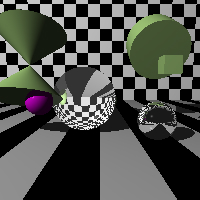
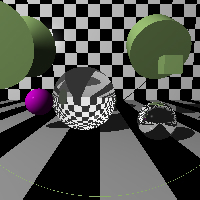
need to fix cone

diff --git a/Basic ray tracing/src/shapes/cone.cpp b/Basic ray tracing/src/shapes/cone.cpp
@@ -49,10 +49,12 @@ void coneSetPattern(cone *c, pattern *pn)
 
 internal uint8 checkCap(ray r, float t, float trunc)
 {
-	//trunc = fabsf(trunc);
+	trunc = fabsf(trunc);
 
 	float x = r.origin.x + t*r.direction.x;
 	float z = r.origin.z + t*r.direction.z;
+
+	//return (x*x + z*z) < trunc;
 
 	if ((x*x + z*z) <= trunc + EPSILON || (x*x + z*z) <= trunc - EPSILON)
 		return true;
@@ -78,13 +80,13 @@ int cone_intersect(cone *c, intersections *is, ray r)
 {
 	intersectCaps(c, is, r);
 
-	double rdx2 = r.direction.x * r.direction.x;
-	double rdy2 = r.direction.y * r.direction.y;
-	double rdz2 = r.direction.z * r.direction.z;
+	float rdx2 = r.direction.x * r.direction.x;
+	float rdy2 = r.direction.y * r.direction.y;
+	float rdz2 = r.direction.z * r.direction.z;
 
-	double a = rdx2 - rdy2 + rdz2;
-	double b = (2 * (double)r.origin.x * (double)r.direction.x) - (2 * (double)r.origin.y * (double)r.direction.y) + (2 * (double)r.origin.z * (double)r.direction.z);
-	double cc = (double)r.origin.x*(double)r.origin.x - (double)r.origin.y*(double)r.origin.y + (double)r.origin.z*(double)r.origin.z;
+	float a = rdx2 - rdy2 + rdz2;
+	float b = (2 * r.origin.x * r.direction.x) - (2 * r.origin.y * r.direction.y) + (2 * r.origin.z * r.direction.z);
+	float cc = r.origin.x*r.origin.x - r.origin.y*r.origin.y + r.origin.z*r.origin.z;
 
 	if (fabsf(a) <= EPSILON)
 	{
@@ -98,26 +100,71 @@ int cone_intersect(cone *c, intersections *is, ray r)
 		return 1;
 	}
 
-	double d = b*b - 4 * a*cc;
+	float d = b*b - 4 * a*cc;
 	if (d < 0)
 		return 0;
 
-	double t0 = (-b - sqrt(d)) / (2 * a);
-	double t1 = (-b + sqrt(d)) / (2 * a);
+	float t0 = (-b - sqrtf(d)) / (2 * a);
+	float t1 = (-b + sqrtf(d)) / (2 * a);
 
 	if (t0 > t1)
-		swap2double(t0, t1);
+		swap2f(t0, t1);
 
-	double y0 = r.origin.y + t0*r.direction.y;
+	float y0 = r.origin.y + t0*r.direction.y;
 	if (c->min < y0 && y0 < c->max)
 		addIntersection(is, createIntersection(t0, (shape*)c));
 
-	double y1 = r.origin.y + t1*r.direction.y;
+	float y1 = r.origin.y + t1*r.direction.y;
 	if (c->min < y1 && y1 < c->max)
 		addIntersection(is, createIntersection(t1, (shape*)c));
 
 	return 1;
 }
+
+//int cone_intersect(cone *c, intersections *is, ray r)
+//{
+//	intersectCaps(c, is, r);
+//
+//	double rdx2 = r.direction.x * r.direction.x;
+//	double rdy2 = r.direction.y * r.direction.y;
+//	double rdz2 = r.direction.z * r.direction.z;
+//
+//	double a = rdx2 - rdy2 + rdz2;
+//	double b = (2 * (double)r.origin.x * (double)r.direction.x) - (2 * (double)r.origin.y * (double)r.direction.y) + (2 * (double)r.origin.z * (double)r.direction.z);
+//	double cc = (double)r.origin.x*(double)r.origin.x - (double)r.origin.y*(double)r.origin.y + (double)r.origin.z*(double)r.origin.z;
+//
+//	if (fabsf(a) <= EPSILON)
+//	{
+//		if (fabsf(b) <= EPSILON)
+//		{
+//			return 0;
+//		}
+//
+//		float t = -cc / (2 * b);
+//		addIntersection(is, createIntersection(t, (shape*)c));
+//		return 1;
+//	}
+//
+//	double d = b*b - 4 * a*cc;
+//	if (d < 0)
+//		return 0;
+//
+//	double t0 = (-b - sqrt(d)) / (2 * a);
+//	double t1 = (-b + sqrt(d)) / (2 * a);
+//
+//	if (t0 > t1)
+//		swap2double(t0, t1);
+//
+//	double y0 = r.origin.y + t0*r.direction.y;
+//	if (c->min < y0 && y0 < c->max)
+//		addIntersection(is, createIntersection(t0, (shape*)c));
+//
+//	double y1 = r.origin.y + t1*r.direction.y;
+//	if (c->min < y1 && y1 < c->max)
+//		addIntersection(is, createIntersection(t1, (shape*)c));
+//
+//	return 1;
+//}
 
 vec4f cone_normalAt(cone *c, vec4f *point)
 {

diff --git a/Basic ray tracing/src/rt.h b/Basic ray tracing/src/rt.h
@@ -182,22 +182,22 @@ void render()
 	cone_construct_default(&cone);
 	cone.min = -1;
 	cone.max = 1;
-	cone.closed = false;
-	mat4 coneRotaion = mat4RotationX(degreesToRadians(20));
-	mat4 coneTranslation = mat4Translation(vec4fVector(-2, 2, 0));
+	cone.closed = true;
+	mat4 coneRotaion = mat4RotationX(degreesToRadians(80));
+	mat4 coneTranslation = mat4Translation(vec4fVector(-2.5, 2.5, 0));
 	mat4 coneTransform = mat4Mul(&coneTranslation, &coneRotaion);
 	coneSetTransform(&cone, coneTransform);
 	shapes[8] = (shape*)&cone;
 
 	world w = worldCreate(lights, 1, shapes, shapeCount);
 
-	uint32 width = 200, height = 200;
+	uint32 width = 4000, height = 4000;
 	camera cam = camCreate(width, height, M_PI / 3);
 	mat4 viewTransform = camViewTransform(vec4fPoint(0, 1.5, -5), vec4fPoint(0, 1, 0), vec4fVector(0, 1, 0));
 	camSetTransform(&cam, viewTransform);
 
 	color *image = camRender(cam, w);
-	stbi_write_jpg("cone.jpg", width, height, 3, image, 100);
+	stbi_write_jpg("coneDebug4000x4000.jpg", width, height, 3, image, 100);
 
 	worldDestroy(&w);
 }	
